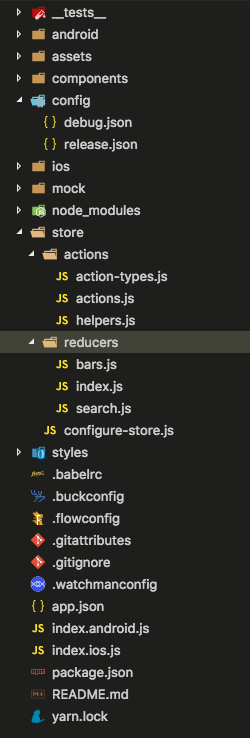
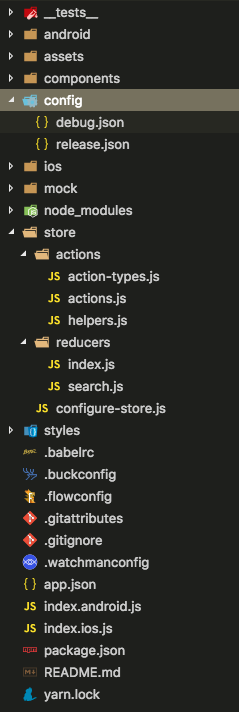
Step Step baby Step

Changed region(s): [[0.0, 0.0, 1.0, 0.9888]]

diff --git a/src/step-25/HomeScreen.js b/src/step-25/HomeScreen.js
@@ -1,0 +1,86 @@
+import React, { Component } from 'react'
+import Highlight from 'react-syntax-highlight'
+import Note from '../Note'
+
+const payload = `// codes`
+
+const HomeScreen = `class HomeScreen extends React.Component {
+  static navigationOptions () {
+    return { title: 'Welcome' }
+  }
+
+  constructor (props) {
+    super(props)
+
+    this.clickHandler = this.clickHandler.bind(this)
+
+    // Go get our location
+    navigator.geolocation.getCurrentPosition(data => this.state.location = data, error => console.log('GEO ERROR', error))
+
+    this.state = {
+      searchString: '',
+      location: null
+    }
+
+    console.log('CURRENT POSITION: ', this.state.location)
+  }`
+
+const manifest = `<uses-permission android:name="android.permission.ACCESS_FINE_LOCATION" />`
+
+const imports = `
+import { connect } from 'react-redux'
+import { searchBars } from './../store/actions/actions'
+`
+
+const connect = `
+export default connect(null, dispatch => {
+  return {
+    doSearch: (text, lat, long) => dispatch(searchBars(text, lat, long))
+  }
+})(HomeScreen)
+`
+
+const clickHandler = `clickHandler () {
+  const { navigation, doSearch } = this.props
+  const { searchString, location } = this.state
+  doSearch(searchString, location.coords.latitude, location.coords.longitude).then(() => navigation.navigate('Map', { searchString: this.state.searchString }))
+  // should add a catch block in case there is an error. We would want to stay here and display the error message instead of naving to Map.
+}`
+
+class SearchUiView extends Component {
+  render() {
+
+    return (
+      <div className="general">
+        <h1>16. Connect the HomeScreen Component</h1>
+
+        <ul className="setup__steps">
+          <li>
+            <p>We know we will need latitude and longitude of our device. Lets grab that from the <a href='https://facebook.github.io/react-native/docs/geolocation.html'>Geolocation</a> API, which is global in React Native.</p>
+            <Highlight lang='javascript' value={HomeScreen} />
+            
+            <Note>If you are using android emulator, be sure to add this to your AndroidManifest.xml</Note>
+            <Highlight lang='xml' value={manifest} />
+          </li>
+          <li>
+            <p>Next, import the connect function from react-redux and the searchBars action from our action creators.</p>
+            <Highlight lang='xml' value={imports} />
+          </li>
+          <li>
+            <p>Now, connect the HomeScreen app to the Redux store and map the action for searchBars.</p>
+            <Highlight lang='javascript' value={connect} />
+          </li>
+          <li>
+            <p>Finally, update the clickHandler to dispatch our action and send in the search string, lat, and long</p>
+            <Highlight lang='javascript' value={clickHandler} />
+          </li>
+          <li>
+            <p>Now that we have triggered our fetch call and received the data in our redux store, we can wire up the data in the Map component. Head to the next step to get started.</p>
+          </li>
+        </ul>
+      </div>
+    )
+  }
+}
+
+export default SearchUiView

diff --git a/src/step-23/ReOrganize.js b/src/step-23/ReOrganize.js
@@ -159,18 +159,51 @@ export default class App extends React.Component {
 AppRegistry.registerComponent('barfinder', () => App)
 `
 
+const packageJSON = `{
+	"name": "barfinder",
+	"version": "0.0.1",
+	"private": true,
+	"scripts": {
+		"start": "node node_modules/react-native/local-cli/cli.js start",
+		"test": "jest",
+		"lint": "standard --fix"
+	},
+	"dependencies": {
+		"lodash": "^4.17.4",
+		"react": "16.0.0-alpha.12",
+		"react-native": "0.48.3",
+		"react-native-configs": "^1.1.0",
+		"react-native-maps": "^0.16.4",
+		"react-navigation": "^1.0.0-beta.11",
+		"react-redux": "^5.0.6",
+		"redux": "^3.7.2",
+		"redux-thunk": "^2.2.0"
+	},
+	"devDependencies": {
+		"babel-jest": "21.0.2",
+		"babel-preset-react-native": "4.0.0",
+		"jest": "21.1.0",
+		"react-test-renderer": "16.0.0-alpha.12",
+		"standard-react-native": "^1.0.1"
+	},
+	"jest": {
+		"preset": "react-native"
+	}
+}
+`
+
 class SearchUiView extends Component {
   render() {
 
     return (
       <div className="general">
-        <h1>16. Let's Reorganize!</h1>
+        <h1>16. Let's Start by Reorganizing!</h1>
         <p>In the next few steps we will be cleaning up some code from the last workshop, adding the components we need for our search screen, and adding the interactions and supporting routes for the map screen, and detail screen.</p>
 
         <h2>Project Structure</h2>
         <p>Setup your project with the following files and folders:</p>
 
-        <p> 2 key folders added </p>
+        <p><b>2 key folders added </b></p>
         <ul>
           <li>/config</li>
           <li>/store</li>
@@ -178,6 +211,9 @@ class SearchUiView extends Component {
         
         <img src={structurePng} style={{height: '60rem'}} />
 
+        <p>Update package.json to include the redux and config dependencies</p>
+        <Highlight lang='json' value={packageJSON} />
+        <p>npm install</p>
 
         <h2>Move HomeScreen to its own component</h2>
         <p>Let's start by making our entry files a bit more readable</p>

diff --git a/src/step-24/StoreSetup.js b/src/step-24/StoreSetup.js
@@ -137,7 +137,10 @@ export default function search(state = initialState, { type, payload }) {
     }
 }`
 
-
+const config = `{
+  "barApi":  "https://nm-bar-finder.herokuapp.com/api/v1/bar/search"
+}
+`
 
 class SearchUiView extends Component {
   render() {
@@ -179,6 +182,20 @@ class SearchUiView extends Component {
           <li>
             <p>/reducers/search.js</p>
             <Highlight lang='javascript' value={SearchReducer} />
+          </li>
+
+          <li>
+            <p>
+              The 'react-nativ-configs' module is handy for configuring API endpoints. It uses the __DEV__ global to select the configs. 
+              This is helpful if you want to setup a mock endpoint for local development and a seperate enpoint for release.
+            </p>
+            <p>
+              You can also use it for other configurations that you might want to only run in development. Let's set up the supporting files.
+            </p>
+            <p>/config/debug.json</p>
+            <Highlight lang='javascript' value={config} />
+            <p>/config/release.json</p>
+            <Highlight lang='javascript' value={config} />
           </li>
          
         </ul>

diff --git a/src/index.js b/src/index.js
@@ -33,7 +33,7 @@ import StateManagement from './step-21/StateManagement'
 import TheAPI from './step-22/TheAPI'
 import ReOrg from './step-23/ReOrganize'
 import StoreSetup from './step-24/StoreSetup'
-// import OnYourOwnTwo from './step-19/OnYourOwn'
+import HomeScreen from './step-25/HomeScreen'
 // import ListItemDetail from './step-18/ListItemDetail'
 
 import PageNotFound from './PageNotFound'
@@ -82,6 +82,7 @@ ReactDOM.render(
       <Route path="/the-api" component={TheAPI} />
       <Route path="/reorganize" component={ReOrg} />
       <Route path="/store-setup" component={StoreSetup} />
+      <Route path="/home-screen" component={HomeScreen} />
       {/* <Route path="/list-item-detail" component={ListItemDetail} />
       <Route path="/on-your-own-two" component={OnYourOwnTwo} /> */}
 

diff --git a/src/Menu.js b/src/Menu.js
@@ -223,13 +223,19 @@ class Menu extends Component {
             <li>
               <NavLink to="/reorganize">
                 <span className="menu__steps">23</span>
-                Project Organization
+                Let's Get Started
               </NavLink>
             </li>
             <li>
               <NavLink to="/store-setup">
                 <span className="menu__steps">24</span>
                 Store Setup
+              </NavLink>
+            </li>
+            <li>
+              <NavLink to="/home-screen">
+                <span className="menu__steps">25</span>
+                Home Screen
               </NavLink>
             </li>
           </ul>
